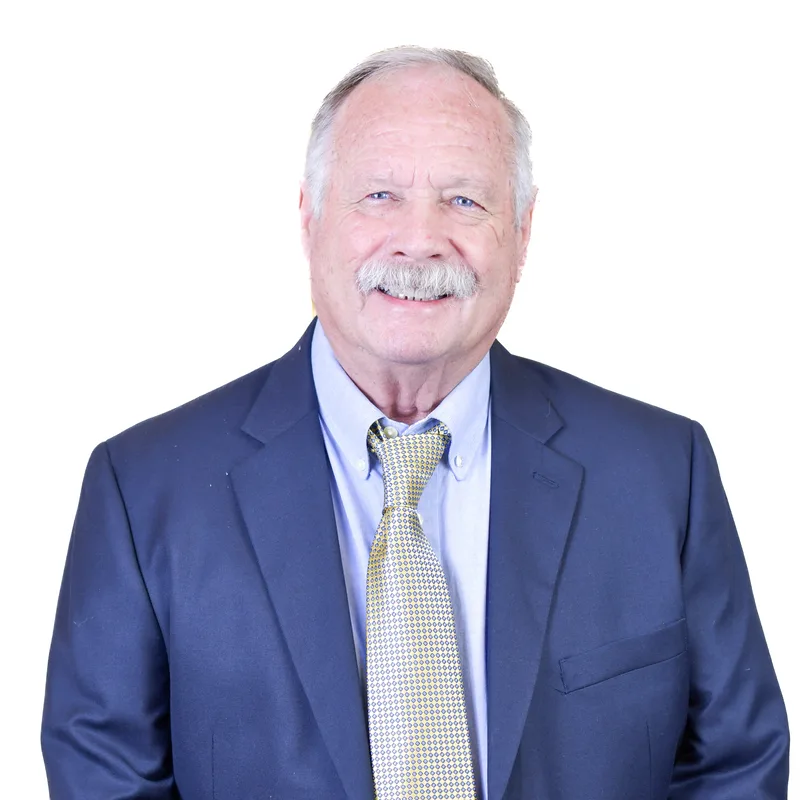
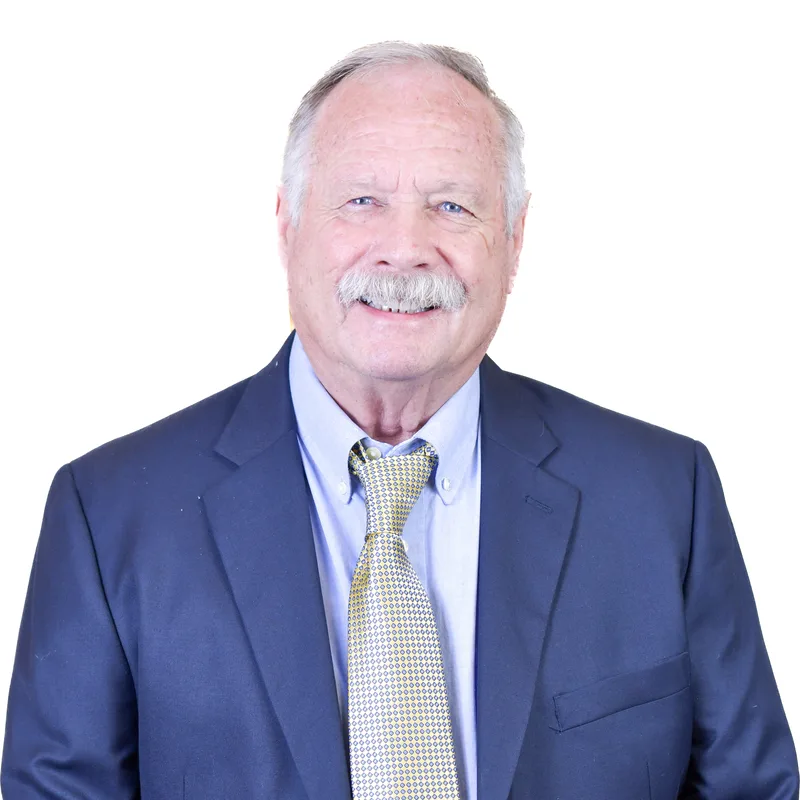
Reshoot staff photos and reorganize departments
Photo work:
- Replace Gary Hayes monogram stub with his real photo
- Update Sonja Garcia photo (new source from client)
- Re-crop all 20 portraits with a normalized trim+fill pipeline
  (trim white background, scale figure to fill 800x800, top-aligned
  with a 40px breathing strip)
- For Gary and Kristina specifically, the auto-trim was breaking
  due to noise/specks in the source files; pre-painted noise zones
  (above the hair line + small side patches in the figure margin)
  so the trim could anchor cleanly

Department changes:
- New "Outside Sales" department between Leadership and Office
- Move Sonja Garcia from Office & Finance into Outside Sales
- Move Brantley Stewart from Leadership & Operations into
  Waterproofing (alongside Orlando, the dedicated Waterproofing
  Superintendent)

StaffCard polish:
- Subtle ring (ring-1 ring-secondary-200/70) around the photo
  container and a soft bg-secondary-50 placeholder, so cards no
  longer feel like they're floating when the photo's white
  background meets a white section background

diff --git a/src/data/staff.ts b/src/data/staff.ts
@@ -1,5 +1,6 @@
 export type StaffDepartment =
   | "leadership"
+  | "outside-sales"
   | "office"
   | "roofing"
   | "waterproofing"
@@ -24,6 +25,12 @@ export const departments: Department[] = [
     id: "leadership",
     name: "Leadership & Operations",
     description: "Setting direction and overseeing projects company-wide.",
+  },
+  {
+    id: "outside-sales",
+    name: "Outside Sales",
+    description:
+      "Working directly with property owners and building managers across our service area.",
   },
   {
     id: "office",
@@ -72,12 +79,14 @@ export const staff: StaffMember[] = [
     department: "leadership",
     image: "/images/staff/kyle-barron.webp",
   },
+
+  // Outside Sales
   {
-    id: "brantley-stewart",
-    name: "Brantley Stewart",
-    role: "Project Superintendent",
-    department: "leadership",
-    image: "/images/staff/brantley-stewart.webp",
+    id: "sonja-garcia",
+    name: "Sonja Garcia",
+    role: "Senior Accounts Manager",
+    department: "outside-sales",
+    image: "/images/staff/sonja-garcia.webp",
   },
 
   // Office & Finance
@@ -95,13 +104,6 @@ export const staff: StaffMember[] = [
     department: "office",
     image: "/images/staff/erin-harrington.webp",
   },
-  {
-    id: "sonja-garcia",
-    name: "Sonja Garcia",
-    role: "Senior Accounts Manager",
-    department: "office",
-    image: "/images/staff/sonja-garcia.webp",
-  },
 
   // Roofing
   {
@@ -109,7 +111,7 @@ export const staff: StaffMember[] = [
     name: "Gary Hayes",
     role: "Roofing Superintendent",
     department: "roofing",
-    image: "/images/staff/gary-hayes.webp", // monogram stub — replace with real photo when available
+    image: "/images/staff/gary-hayes.webp",
   },
   {
     id: "frank-mouton",
@@ -147,6 +149,13 @@ export const staff: StaffMember[] = [
     role: "Waterproofing Superintendent",
     department: "waterproofing",
     image: "/images/staff/orlando-vera.webp",
+  },
+  {
+    id: "brantley-stewart",
+    name: "Brantley Stewart",
+    role: "Project Superintendent",
+    department: "waterproofing",
+    image: "/images/staff/brantley-stewart.webp",
   },
   {
     id: "carlos-cabrera",

diff --git a/src/components/ui/StaffCard.tsx b/src/components/ui/StaffCard.tsx
@@ -9,7 +9,7 @@ interface StaffCardProps {
 export function StaffCard({ person, priority = false }: StaffCardProps) {
   return (
     <article className="group">
-      <div className="relative aspect-square overflow-hidden rounded-lg bg-secondary-100 shadow-sm">
+      <div className="relative aspect-square overflow-hidden rounded-lg bg-secondary-50 shadow-sm ring-1 ring-secondary-200/70">
         <Image
           src={person.image}
           alt={person.name}
